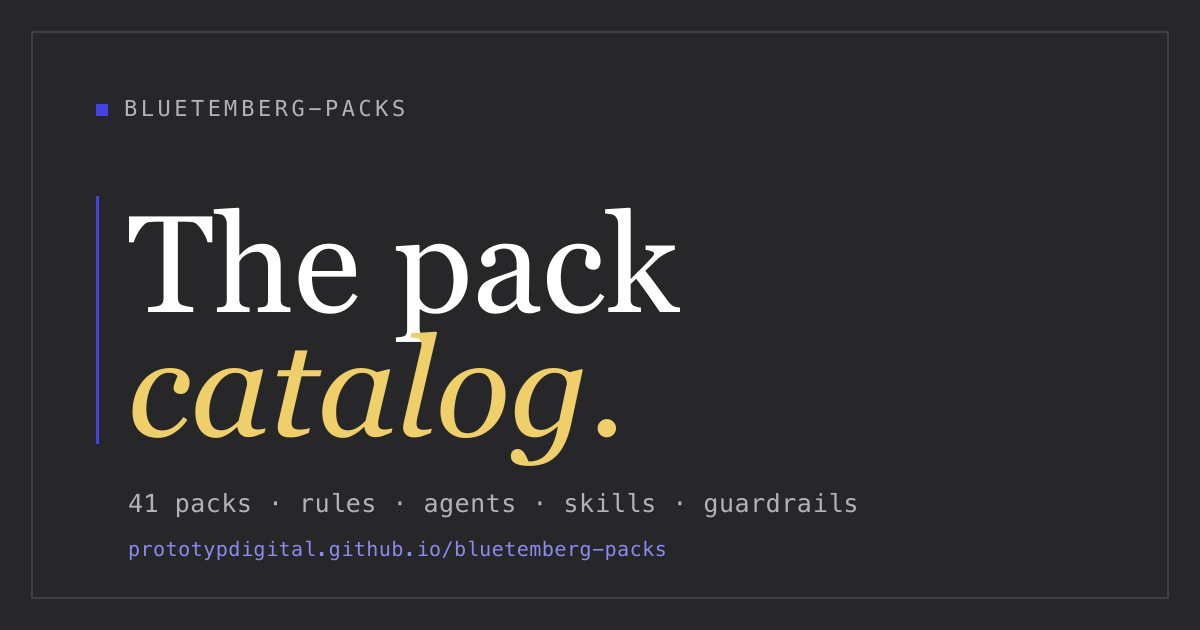
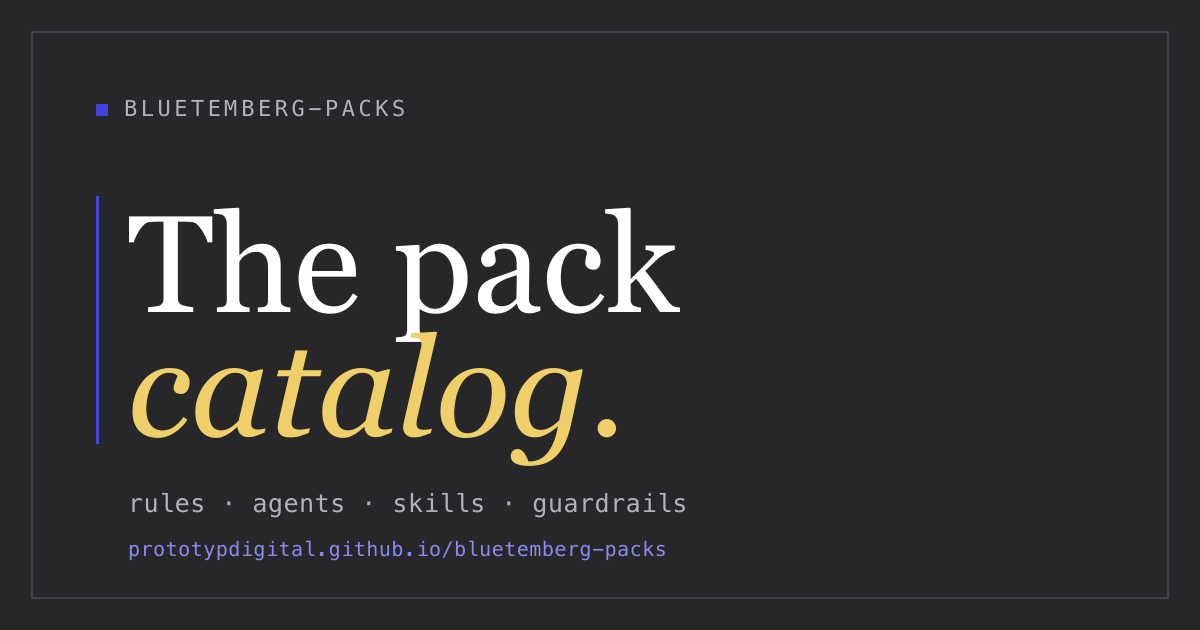
fix(site): address CodeRabbit review
- pages.yml: drop npm cache. The build job runs on untrusted pull_request
  events alongside trusted release/dispatch; a shared cache across that
  trust boundary is poisonable and saves nothing for a few devDeps.
- generate-catalog.js: sort content files by name. catalog.json item order
  and the preview (contentFiles[0]) were tied to filesystem read order, so
  the published contract could vary across machines/CI.
- index.html: only show "Copied" after the clipboard actually succeeds;
  failures now report "Copy failed" instead of faking success.
- index.html: derive profile chips from the catalog (union with
  PROFILE_ORDER) so a new profile can't become silently unfilterable.
- OG card: drop the volatile pack count, making site/og.png a static
  asset. This removes the stale-on-deploy risk at the root rather than
  rasterizing in CI (the runner has no rsvg-convert) — and removes the
  catalog dependency from build-og.js entirely.

Changed region(s): [[0.0925, 0.7841, 0.7092, 0.8143]]

diff --git a/scripts/build-og.js b/scripts/build-og.js
@@ -2,7 +2,9 @@
 // @ts-check
 // Rasterize the Open Graph share card (scripts/og-card.svg -> site/og.png).
 //
-// Run after the pack count changes:  npm run build:og
+// The card carries no catalog-derived data, so site/og.png is a static asset
+// (committed, copied as-is by build:site). Re-run only when the card DESIGN
+// changes:  npm run build:og
 //
 // Requires `rsvg-convert` (brew install librsvg). The brand fonts (Newsreader,
 // JetBrains Mono) are fetched to a temp dir so the headline renders correctly
@@ -10,21 +12,14 @@
 // unavailable the script exits non-zero with guidance rather than shipping a
 // fallback-font card silently.
 import { execFileSync } from "node:child_process";
-import {
-  mkdtempSync,
-  readFileSync,
-  writeFileSync,
-  rmSync,
-  existsSync,
-} from "node:fs";
+import { mkdtempSync, writeFileSync, rmSync } from "node:fs";
 import { tmpdir } from "node:os";
 import { dirname, join } from "node:path";
 import { fileURLToPath } from "node:url";
 
 const __dirname = dirname(fileURLToPath(import.meta.url));
 const REPO_ROOT = join(__dirname, "..");
-const SVG_TEMPLATE = join(__dirname, "og-card.svg");
-const CATALOG_PATH = join(REPO_ROOT, "catalog.json");
+const SVG_PATH = join(__dirname, "og-card.svg");
 const OUT_PNG = join(REPO_ROOT, "site", "og.png");
 
 const FONTS = [
@@ -53,16 +48,6 @@ function ensureRsvg() {
   }
 }
 
-function packCount() {
-  if (!existsSync(CATALOG_PATH)) return "";
-  try {
-    const catalog = JSON.parse(readFileSync(CATALOG_PATH, "utf8"));
-    return String((catalog.packs ?? []).length);
-  } catch {
-    return "";
-  }
-}
-
 async function fetchFonts(dir) {
   if (typeof fetch !== "function") {
     console.error("build:og — global fetch unavailable; cannot fetch fonts.");
@@ -88,24 +73,15 @@ async function fetchFonts(dir) {
 async function main() {
   ensureRsvg();
 
-  const count = packCount();
-  const svg = readFileSync(SVG_TEMPLATE, "utf8").replace(
-    /\{\{COUNT\}\}/g,
-    count,
-  );
-
   const dir = mkdtempSync(join(tmpdir(), "og-fonts-"));
   try {
     const confPath = await fetchFonts(dir);
-    const svgPath = join(dir, "og-card.svg");
-    writeFileSync(svgPath, svg);
-
     execFileSync(
       "rsvg-convert",
-      ["-w", "1200", "-h", "630", svgPath, "-o", OUT_PNG],
+      ["-w", "1200", "-h", "630", SVG_PATH, "-o", OUT_PNG],
       { stdio: "inherit", env: { ...process.env, FONTCONFIG_FILE: confPath } },
     );
-    console.log(`build:og — wrote site/og.png (${count} packs)`);
+    console.log("build:og — wrote site/og.png");
   } finally {
     rmSync(dir, { recursive: true, force: true });
   }

diff --git a/site/index.html b/site/index.html
@@ -1090,7 +1090,13 @@
         profWrap.appendChild(
           chip("All", { dataset: { filter: "profile", value: "all" } }),
         );
-        for (const p of PROFILE_ORDER) {
+        // PROFILE_ORDER fixes the canonical order; append any profile present in
+        // the catalog but missing from that list so it stays filterable.
+        const known = new Set(PROFILE_ORDER);
+        const extra = [...new Set(PACKS.flatMap((p) => p.profiles || []))]
+          .filter((p) => !known.has(p))
+          .sort();
+        for (const p of [...PROFILE_ORDER, ...extra]) {
           profWrap.appendChild(
             chip(p, { dataset: { filter: "profile", value: p } }),
           );
@@ -1115,8 +1121,10 @@
 
       /* ---- clipboard with inline feedback ---- */
       async function copyText(text, btn) {
+        let ok = false;
         try {
           await navigator.clipboard.writeText(text);
+          ok = true;
         } catch {
           const ta = document.createElement("textarea");
           ta.value = text;
@@ -1125,16 +1133,18 @@
           document.body.appendChild(ta);
           ta.select();
           try {
-            document.execCommand("copy");
+            ok = document.execCommand("copy");
           } catch {
-            /* clipboard unavailable — nothing more to do */
+            /* clipboard unavailable — report failure below */
           }
           ta.remove();
         }
+
+        // Only claim success when the copy actually happened.
         const original = btn.dataset.label || btn.textContent;
         btn.dataset.label = original;
-        btn.textContent = "Copied";
-        btn.classList.add("copied");
+        btn.textContent = ok ? "Copied" : "Copy failed";
+        btn.classList.toggle("copied", ok);
         clearTimeout(btn._t);
         btn._t = setTimeout(() => {
           btn.textContent = original;

diff --git a/scripts/generate-catalog.js b/scripts/generate-catalog.js
@@ -71,7 +71,9 @@ function listContentFiles(pkgDir, kind) {
     }
   }
 
-  return files;
+  // Sort by name so catalog.json item order and the preview (contentFiles[0])
+  // are deterministic — readdirSync order is filesystem-dependent.
+  return files.sort((a, b) => a.name.localeCompare(b.name));
 }
 
 function buildEntry(pkgDir) {